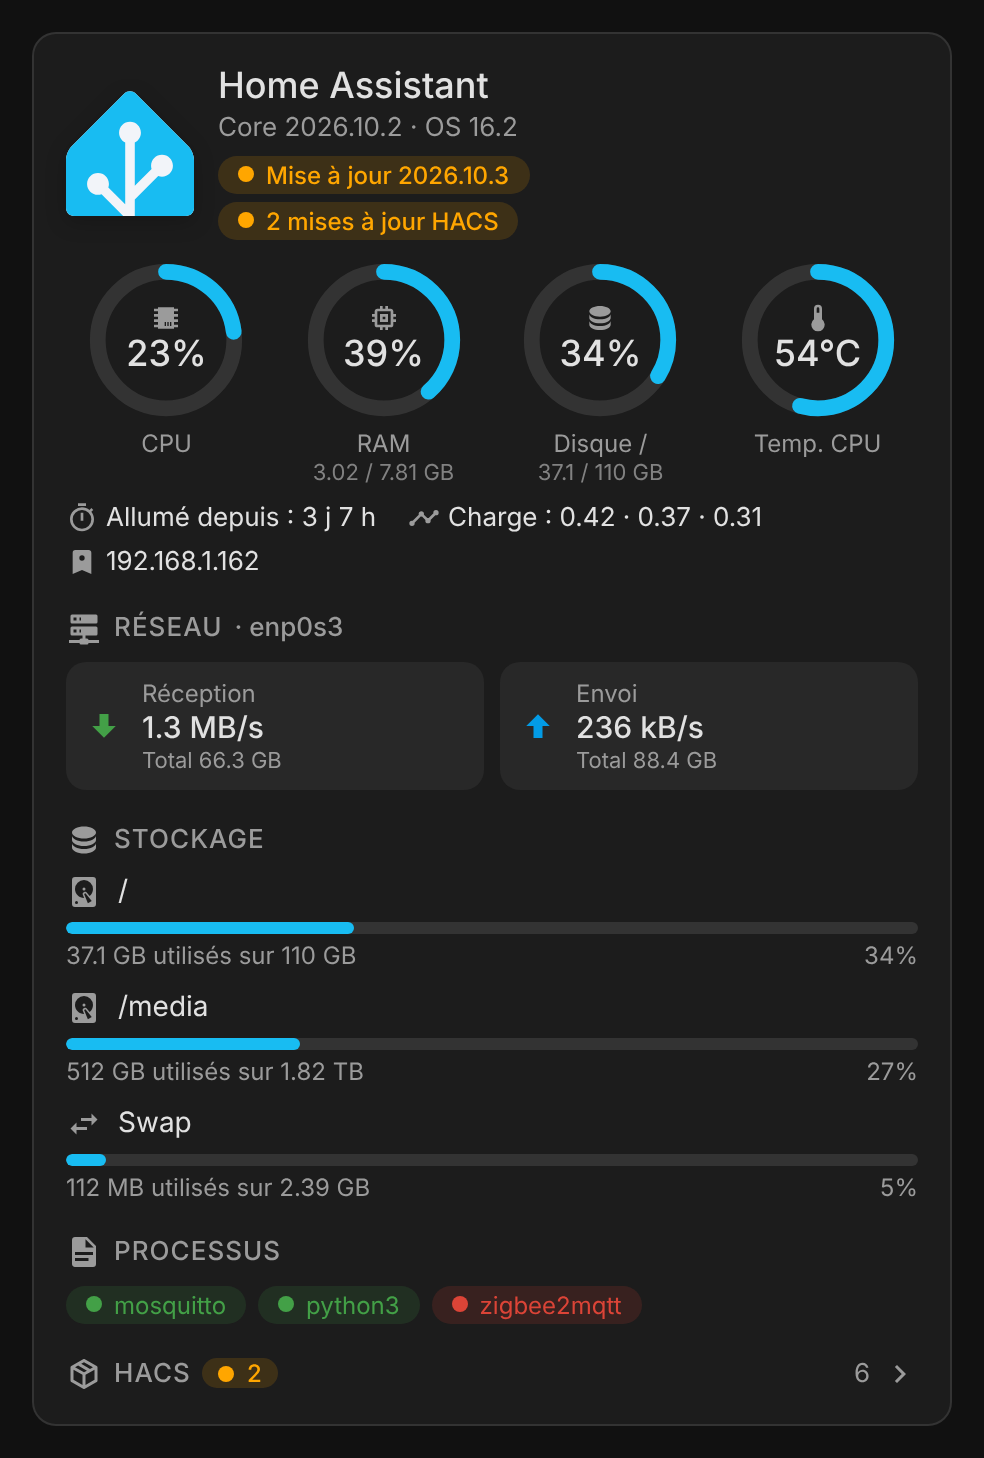
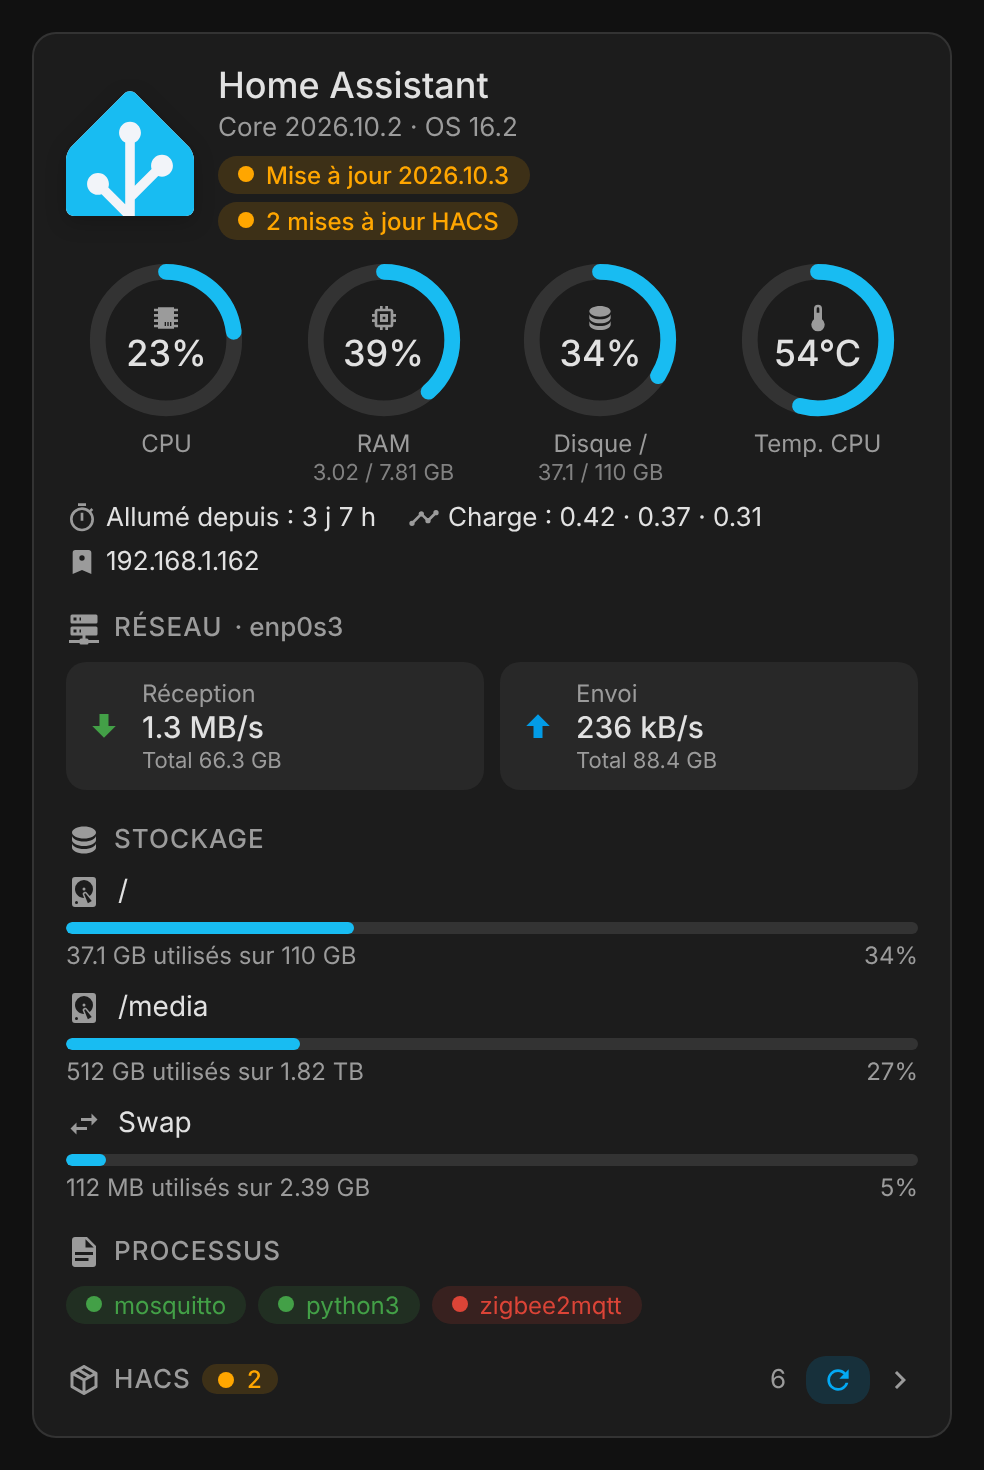
Move the HACS check button to the section header
The button stays visible while the list is folded (the default). It spins
and shows the progress during a check; the last check time stays in the
unfolded list. Bump to 1.3.2.

Claude-Session: https://claude.ai/code/session_01RFV5xSLphoNjwMoS7QecVX

diff --git a/src/system-monitor-card.js b/src/system-monitor-card.js
@@ -475,12 +475,19 @@ class SystemMonitorBase extends HTMLElement {
       const action = path.find((n) => n.dataset && n.dataset.action);
       if (action) {
         if (action.dataset.action === "hacs") this._hacsOpen = !this._hacsOpen;
-        if (action.dataset.action === "hacs-check") this._checkHacs();
+        if (action.dataset.action === "hacs-check" && action.getAttribute("aria-disabled") !== "true") this._checkHacs();
         this._update();
         return;
       }
       const el = path.find((n) => n.dataset && n.dataset.entity);
       if (el) fireMoreInfo(this, el.dataset.entity);
+    });
+    // Keyboard: Enter / Space on an element with role="button" (the check button is a span inside the folding header).
+    this.shadowRoot.addEventListener("keydown", (ev) => {
+      if ((ev.key === "Enter" || ev.key === " ") && ev.target?.getAttribute?.("role") === "button") {
+        ev.preventDefault();
+        ev.target.click();
+      }
     });
     // Logos load dynamically: on error, try the next source, then fall back to the category icon.
     this.shadowRoot.addEventListener(
@@ -655,11 +662,12 @@ const FULL_STYLE = `
   .section-title .chevron { transition: transform .2s ease; }
   .section-title.closed .chevron { transform: rotate(-90deg); }
   .section-title .chip { text-transform: none; letter-spacing: 0; padding: 0 8px; }
-  .hacs .toolbar { display: flex; align-items: center; flex-wrap: wrap; gap: 8px; margin: 10px 0 4px; }
+  .hacs .toolbar { display: flex; align-items: center; flex-wrap: wrap; gap: 8px; margin: 8px 0 4px; }
   .btn { display: inline-flex; align-items: center; gap: 6px; font: inherit; font-size: 13px; font-weight: 500; padding: 6px 12px;
          border: none; border-radius: 10px; cursor: pointer; color: var(--primary-color, #03a9f4);
          background: color-mix(in srgb, var(--primary-color, #03a9f4) 15%, transparent); }
-  .btn:disabled { cursor: default; opacity: .8; }
+  .btn:disabled, .btn[aria-disabled="true"] { cursor: default; opacity: .8; }
+  .section-title .btn-check { text-transform: none; letter-spacing: 0; padding: 4px 8px; margin-left: 4px; font-size: 12px; gap: 4px; }
   .btn .icon { width: 16px; height: 16px; }
   .spin { animation: sm-spin 1s linear infinite; }
   @keyframes sm-spin { to { transform: rotate(360deg); } }
@@ -880,37 +888,41 @@ class SystemMonitorCard extends SystemMonitorBase {
     if (!ext.length) return "";
     const open = this._hacsOpen;
     const n = ext.filter((x) => x.update).length;
-    const head = `<div class="section-title toggle ${open ? "" : "closed"}" data-action="hacs" role="button" aria-expanded="${open}">
-        ${svgIcon(ICONS.hacs)}${this._t("hacs")}
-        ${n ? `<span class="chip warn"><span class="dot"></span>${n}</span>` : ""}
-        <span class="count">${ext.length}</span>${svgIcon(ICONS.chevron, "chevron")}
-      </div>`;
-    if (!open) return `<div class="hacs">${head}</div>`;
     const rf = discoverRefresh(this._hass);
     const admin = !this._hass.user || this._hass.user.is_admin;
-    let toolbar = "";
+    // Check button in the header, so it stays visible while the section is folded.
+    let check = "";
+    let info = "";
     if (rf.button) {
       const st = this._s(rf.status);
       const running = st?.state === "running";
       const busy = running || this._s(rf.button)?.state === "unavailable";
-      const label = running
+      const progress = running ? `${st.attributes.done ?? 0}/${st.attributes.total || "…"}` : "";
+      const title = running
         ? this._t("checking").replace("{i}", st.attributes.done ?? 0).replace("{n}", st.attributes.total || "…")
         : this._t("check_updates");
+      check = `<span class="btn btn-check" role="button" tabindex="0" data-action="hacs-check" title="${esc(title)}" aria-label="${esc(title)}" aria-disabled="${busy}">
+          ${svgIcon(ICONS.refresh, running ? "spin" : "")}${progress ? `<span>${esc(progress)}</span>` : ""}
+        </span>`;
       const error = this._checkError || (st?.state === "error" ? st.attributes.error : null);
       const last = this._s(rf.lastCheck)?.state;
       const lastText = !running && last && !["unknown", "unavailable"].includes(last)
         ? this._t("last_check").replace("{t}", relTime(last, lang(this._hass, this._config)))
         : "";
-      toolbar = `<div class="toolbar">
-          <button class="btn" data-action="hacs-check" ${busy ? "disabled" : ""}>
-            ${svgIcon(ICONS.refresh, running ? "spin" : "")}${esc(label)}
-          </button>
+      if (lastText || error)
+        info = `<div class="toolbar">
           ${lastText ? `<span class="muted last clickable" data-entity="${rf.lastCheck}">${esc(lastText)}</span>` : ""}
           ${error ? `<span class="err">${esc(this._t("check_failed").replace("{e}", error))}</span>` : ""}
         </div>`;
     } else if (admin) {
-      toolbar = `<div class="toolbar"><a class="hint" href="https://github.com/juju35/ha-hacs-refresh" target="_blank" rel="noopener noreferrer">${esc(this._t("needs_refresh"))}</a></div>`;
+      info = `<div class="toolbar"><a class="hint" href="https://github.com/juju35/ha-hacs-refresh" target="_blank" rel="noopener noreferrer">${esc(this._t("needs_refresh"))}</a></div>`;
     }
+    const head = `<div class="section-title toggle ${open ? "" : "closed"}" data-action="hacs" role="button" aria-expanded="${open}">
+        ${svgIcon(ICONS.hacs)}${this._t("hacs")}
+        ${n ? `<span class="chip warn"><span class="dot"></span>${n}</span>` : ""}
+        <span class="count">${ext.length}</span>${check}${svgIcon(ICONS.chevron, "chevron")}
+      </div>`;
+    if (!open) return `<div class="hacs">${head}</div>`;
     const rows = ext.map((x) => {
       const ver = x.update ? `${esc(x.installed || "?")} → <b>${esc(x.latest || "?")}</b>` : esc(x.installed || "—");
       const status = x.update
@@ -925,7 +937,7 @@ class SystemMonitorCard extends SystemMonitorBase {
           ${status}${gh}
         </div>`;
     });
-    return `<div class="hacs">${head}${toolbar}<div class="exts">${rows.join("")}</div></div>`;
+    return `<div class="hacs">${head}${info}<div class="exts">${rows.join("")}</div></div>`;
   }
 
   _processes(sm) {

diff --git a/README.md b/README.md
@@ -156,7 +156,7 @@ Logos are loaded dynamically, best source first:
 3. The avatar of the GitHub owner of the repository
 4. An icon for the HACS category (integration, dashboard, theme…)
 
-**Check for updates** presses the button of the [HACS Refresh](https://github.com/juju35/ha-hacs-refresh) integration: Home Assistant asks HACS to fetch every downloaded repository again from GitHub, in the background, and the card shows the progress and the time of the last check from HACS Refresh's sensors. The check goes on if you leave the page, and HACS Refresh can also check at an interval set in its options. Without HACS Refresh, the button is replaced by a link to install it.
+**Check for updates** (the refresh button in the HACS section header, visible even while the list is folded) presses the button of the [HACS Refresh](https://github.com/juju35/ha-hacs-refresh) integration: Home Assistant asks HACS to fetch every downloaded repository again from GitHub, in the background, and the card shows the progress and the time of the last check from HACS Refresh's sensors. The check goes on if you leave the page, and HACS Refresh can also check at an interval set in its options. Without HACS Refresh, the button is hidden and the unfolded list shows a link to install it.
 
 Thresholds:
 

diff --git a/CHANGELOG.md b/CHANGELOG.md
@@ -1,5 +1,10 @@
 # Changelog
 
+## 1.3.2
+
+### 💄 Style
+- The **Check for updates** button moved to the HACS section header, next to the number of extensions: it stays visible while the list is folded (the default). It spins and shows the progress while a check runs; the time of the last check is shown under the header once the list is unfolded.
+
 ## 1.3.1
 
 ### Development
